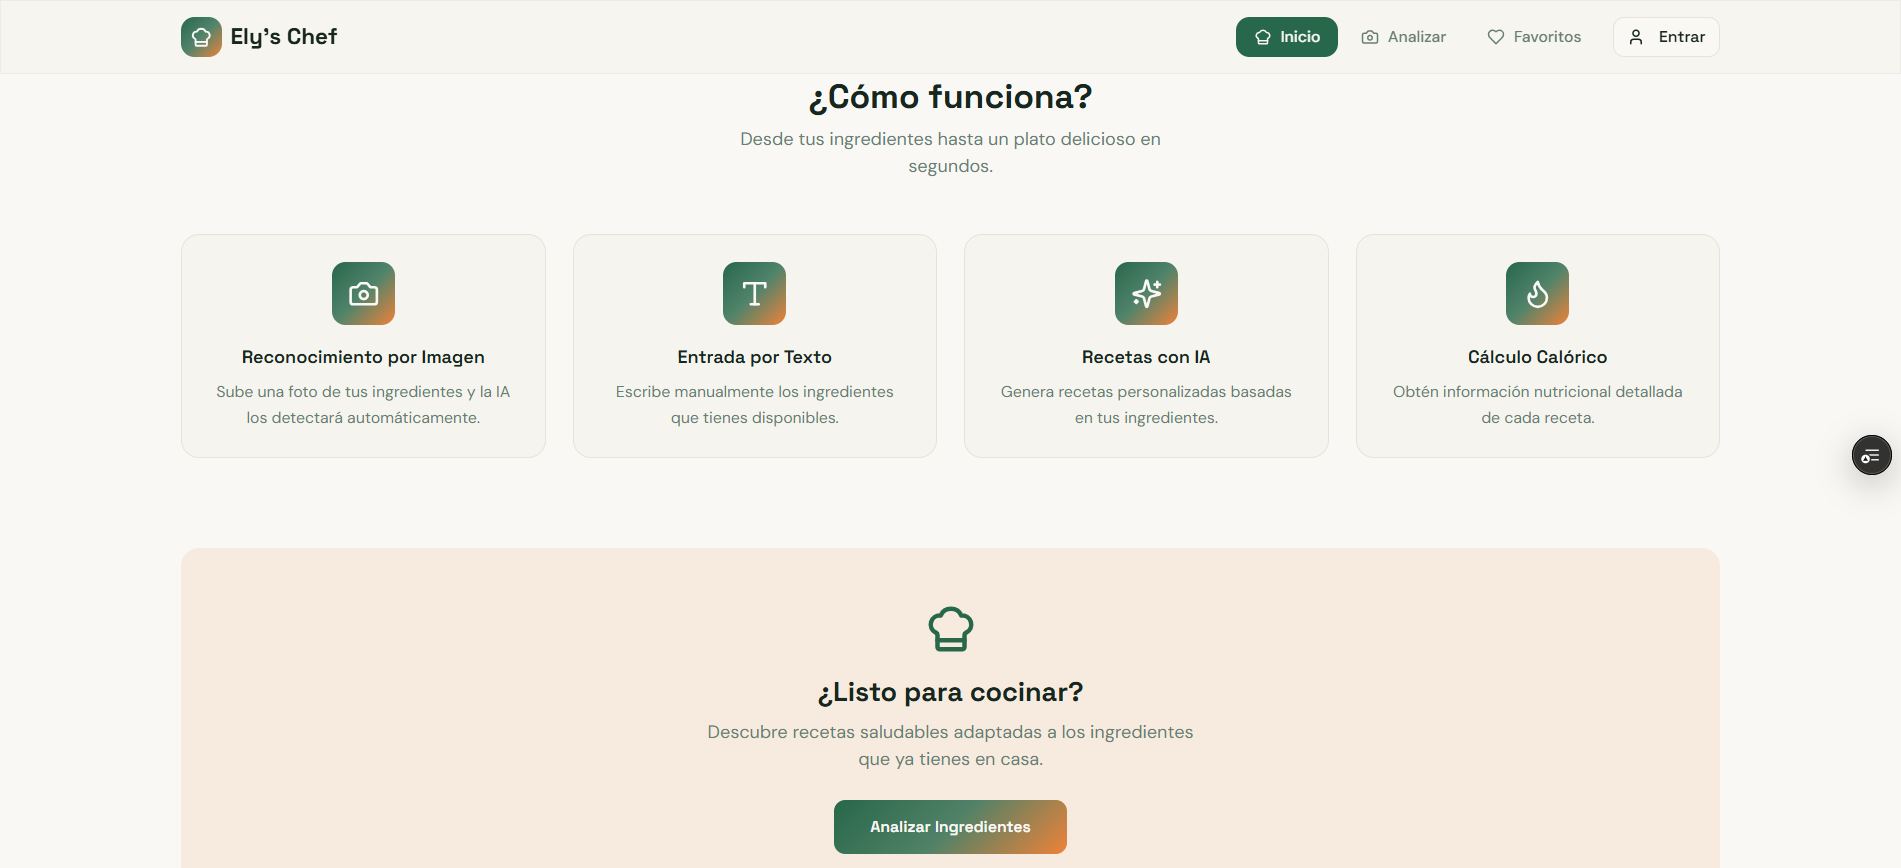
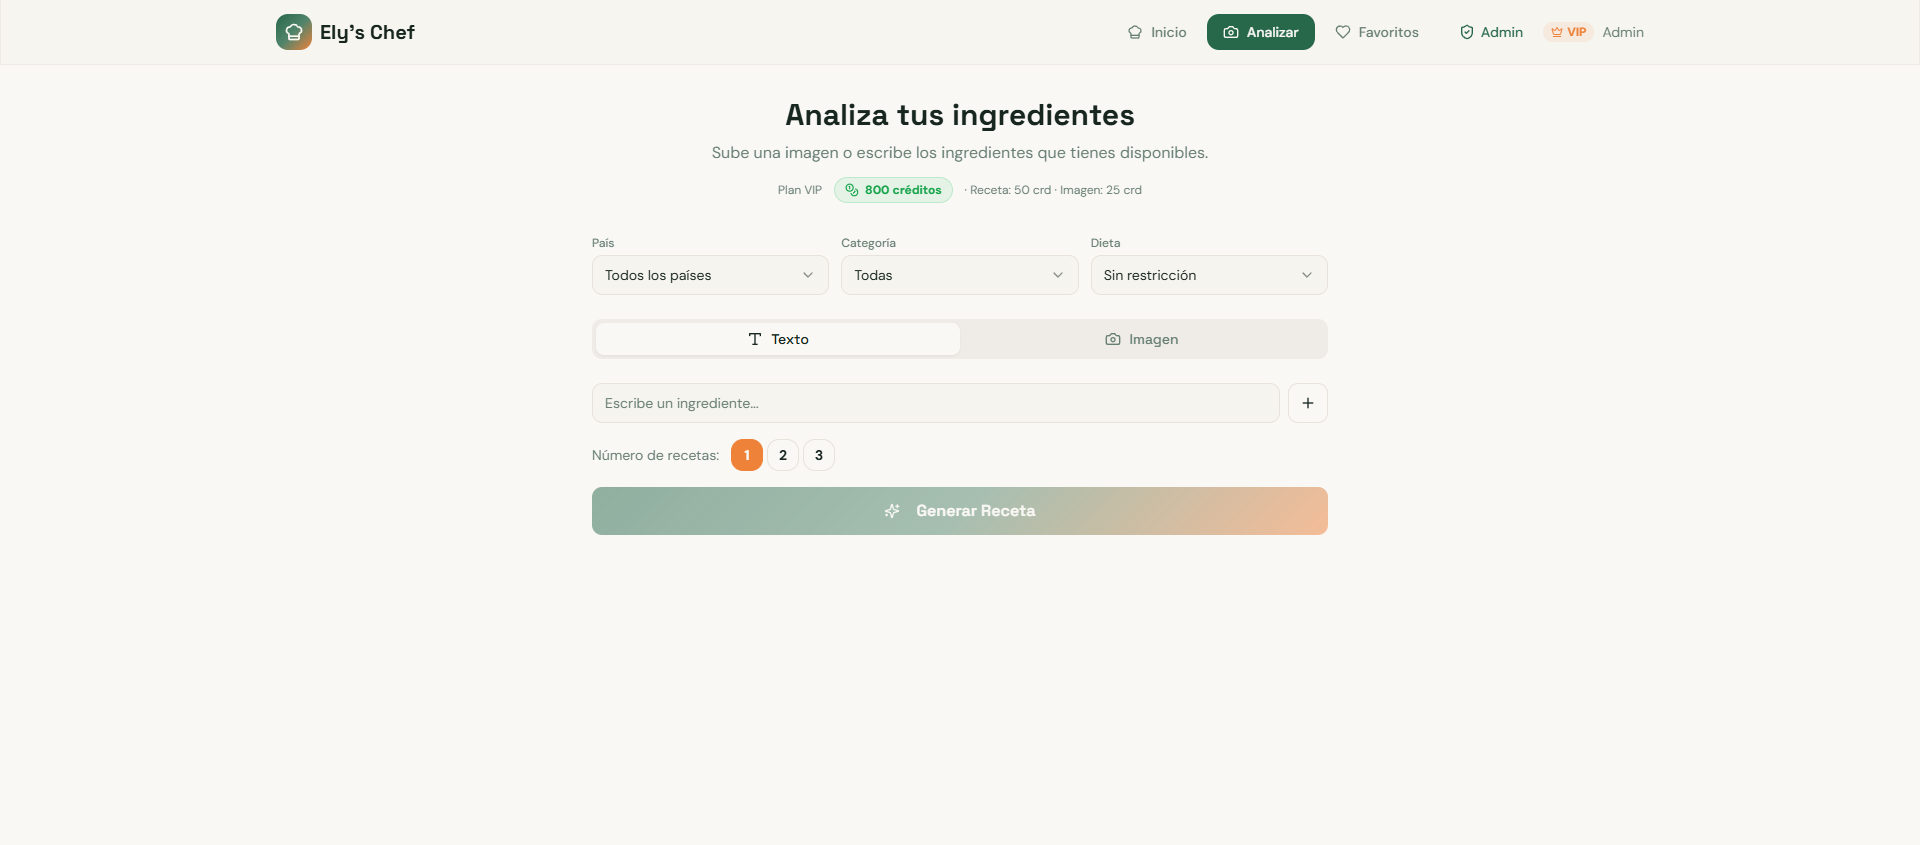
hotfix: arreglar readme

diff --git a/README.md b/README.md
@@ -11,9 +11,9 @@ Introduce los ingredientes que tienes en casa — por texto o fotografía — y 
 
 **[elys-chef.vercel.app](https://elys-chef.vercel.app)**
 
-| Pantalla principal | Generación de recetas |
-|---|---|
-| ![Landing](./screenshots/demo1.jpg) | ![Recetas](./screenshots/demo2.png) |
+| Pantalla principal | Generación de recetas | Panel de administración |
+|---|---|---|
+| ![Landing](./screenshots/demo1.jpg) | ![Recetas](./screenshots/demo2.png) | ![Admin](./screenshots/demo3.png) |
 
 ---
 
